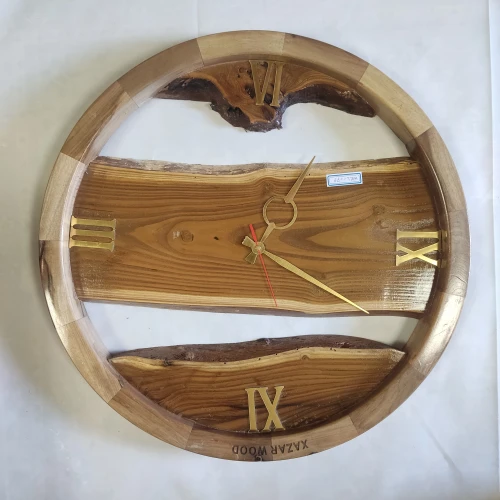
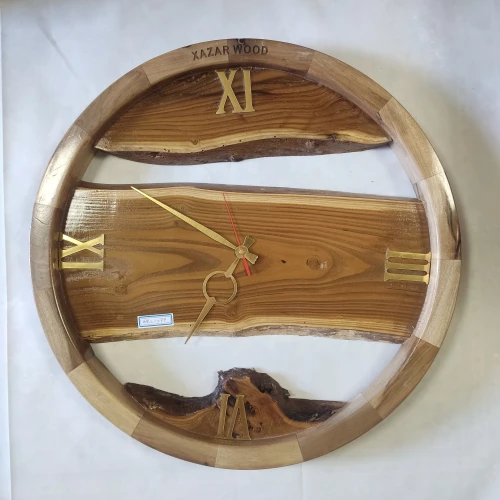
change shipping price, change home page sections , fix user address fetch in edit profile

diff --git a/resources/views/frontend/home/glm-index.blade.php b/resources/views/frontend/home/glm-index.blade.php
@@ -73,7 +73,7 @@
     <section id="products" class="py-16 bg-white dark:bg-wood-950 transition-colors duration-300">
         <div class="max-w-7xl mx-auto px-4">
             <div class="text-center mb-12">
-                <h2 class="text-3xl font-bold text-wood-800 dark:text-wood-100 mb-4">میزهای روستیک ویژه</h2>
+                <h2 class="text-3xl font-bold text-wood-800 dark:text-wood-100 mb-4">میزهای روستیک</h2>
                 <p class="text-lg text-wood-600 dark:text-wood-300"> بهترین میزهای روستیک دستساز</p>
             </div>
             <div class="grid grid-cols-2 md:grid-cols-4  gap-3">
@@ -85,8 +85,8 @@
             <!-- Other Products Section -->
             <div class="mt-16">
                 <div class="text-center mb-8">
-                    <h3 class="text-2xl font-bold text-wood-800 dark:text-wood-100 mb-4">ساعتها و ظروف چوبی</h3>
-                    <p class="text-lg text-wood-600 dark:text-wood-300">سایر محصولات روستیک</p>
+                    <h3 class="text-2xl font-bold text-wood-800 dark:text-wood-100 mb-4">ساعتهای چوبی روستیک</h3>
+                    <p class="text-lg text-wood-600 dark:text-wood-300">با موتور آرامگرد تایوانی</p>
                 </div>
                 <div class="grid grid-cols-2 md:grid-cols-4  gap-3">
                     <!-- Clock Product 1 -->

diff --git a/Modules/Shop/resources/views/cart/review.blade.php b/Modules/Shop/resources/views/cart/review.blade.php
@@ -174,8 +174,8 @@
                                             if($record->pivot->value->value<10){
                                                 //post
 
-                                                $shipping_cost +=250000 * $item['qty'];
-                                                $post_cost +=250000 * $item['qty'];
+                                                $shipping_cost +=400000 * $item['qty'];
+                                                $post_cost +=380000 * $item['qty'];
                                                 session()->put('shipping_cost',$shipping_cost);
                                             }else{
                                                 //barbary
@@ -186,8 +186,8 @@
 
                                             }
                                         }else{
-                                        $shipping_cost += 150000 * $item['qty'];
-                                        $post_cost += 150000 * $item['qty'];
+                                        $shipping_cost += 250000 * $item['qty'];
+                                        $post_cost += 250000 * $item['qty'];
                                         session()->put('shipping_cost',$shipping_cost);
                                     }
 

diff --git a/resources/views/user/profile/edit.blade.php b/resources/views/user/profile/edit.blade.php
@@ -87,7 +87,7 @@
                         آدرس پیش فرض
                     </label>
                    <select name="default_address" class="w-full px-4 py-3 rounded-xl border border-wood-300 dark:border-wood-600 bg-white dark:bg-wood-700 text-wood-900 dark:text-wood-100 focus:ring-2 focus:ring-indigo-500 focus:border-indigo-500 transition">
-                       @foreach(\App\Models\UserAddress::all() as $address)
+                       @foreach(auth()->user()->addresses()->get() as $address)
                             <option value="{{$address->id}}" {{$address->id == auth()->user()->default_address ? 'selected':''}}>{{$address->province->title}}-{{$address->city->title}}-{{$address->address}}-{{$address->postal_code}}</option>
                        @endforeach
                    </select>

diff --git a/app/Http/Controllers/Frontend/HomeController.php b/app/Http/Controllers/Frontend/HomeController.php
@@ -31,7 +31,7 @@ class HomeController extends Controller
         })->latest()->take(4)->get();
         $tables = Product::whereHas('categories',function($query){
             $query->where('name','میز روستیک');
-        })->latest()->take(4)->get();
+        })->orderBy('status')->take(4)->get();
 
 
         return view('frontend.home.glm-index',compact('sliders','products','tables'));
